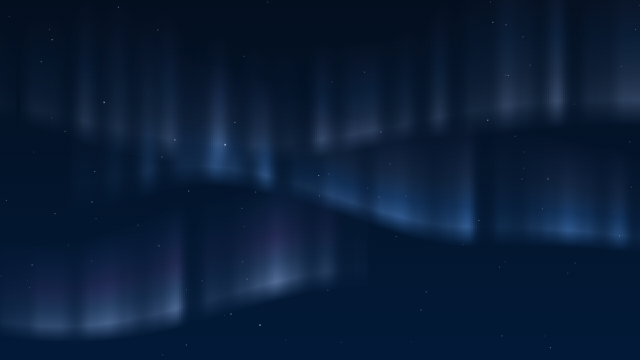
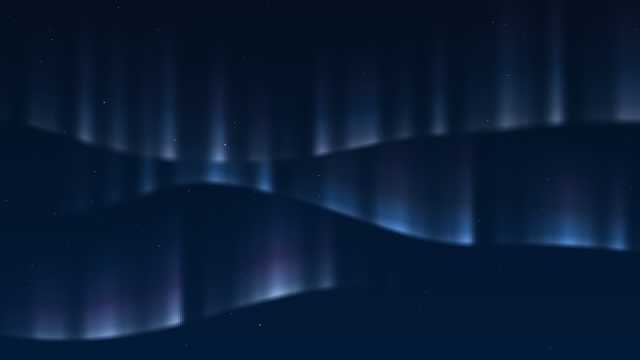
Draft: aurora with a thin bright hem and distinct rays
The default intensity had dropped from 60 to 40 under the contrast rule and
the curtains faded into haze. The light now gathers in a thin hem and rays
with dark gaps, so the default is back at 60 and holds 3.46:1 for
on-surface-variant.

diff --git a/effects/aurora-curtain/index.js b/effects/aurora-curtain/index.js
@@ -74,7 +74,7 @@ const noise2 = (x, y) => {
 const FX = {
   seed: 11,
   t0: 40,
-  settings: {speed: [100, 10, 300], intensity: [40, 10, 100], curtains: [3, 1, 4], interactive: true},
+  settings: {speed: [100, 10, 300], intensity: [60, 10, 100], curtains: [3, 1, 4], interactive: true},
   init(env, rand) {
     const st = {rand, stars: null, sprites: [], sway: 0};
     this.resize(env, st);
@@ -105,10 +105,12 @@ const FX = {
       c.width = 1; c.height = 256;
       const g = c.getContext('2d');
       const grad = g.createLinearGradient(0, 256, 0, 0);
+      // The hem is a thin bright edge, as on a real aurora; above it the colour thins out quickly.
       grad.addColorStop(0, rgba(hem, 0));
-      grad.addColorStop(0.16, rgba(mixc(hem, [255, 255, 255], 0.2), 0.95));
-      grad.addColorStop(0.32, rgba(hem, 0.6));
-      grad.addColorStop(0.55, rgba(mid, 0.32));
+      grad.addColorStop(0.05, rgba(mixc(hem, [255, 255, 255], 0.35), 1));
+      grad.addColorStop(0.13, rgba(hem, 0.7));
+      grad.addColorStop(0.36, rgba(mid, 0.26));
+      grad.addColorStop(0.7, rgba(top, 0.08));
       grad.addColorStop(1, rgba(top, 0));
       g.fillStyle = grad;
       g.fillRect(0, 0, 1, 256);
@@ -143,10 +145,11 @@ const FX = {
         const rays = noise2(u * 38 + k, tt * 2.2);
         const patch = noise2(u * 1.7 + k - tt * 0.5, k + tt * 0.3);
         const lit = patch < 0.3 ? 0 : patch > 0.75 ? 1 : (patch - 0.3) / 0.45;
-        const a = gain * 0.62 * (0.06 + rays * rays * 1.7) * lit * lit;
+        // Rays: bright folds with dark gaps between them, rather than an even haze.
+        const a = gain * 0.88 * (0.02 + rays ** 3 * 3.2) * lit * lit;
         if (a < 0.01) continue;
         ctx.globalAlpha = Math.min(0.85, a);
-        ctx.drawImage(sprite, x - step * 0.4, y - len, step * 1.8, len * 1.2);
+        ctx.drawImage(sprite, x - step * 0.2, y - len, step * 1.3, len * 1.2);
       }
     }
     ctx.globalAlpha = 1;

diff --git a/effects/aurora-curtain/README.md b/effects/aurora-curtain/README.md
@@ -3,7 +3,7 @@
 Glowing aurora curtains fold slowly over a dark starry sky.
 
 - **Russian name:** Полярное сияние
-- **Version:** 1.1.0, simai.effect 1.1.0
+- **Version:** 1.2.0, simai.effect 1.1.0
 - **Surfaces:** sign-in, hero, section, dashboard
 - **Tags:** glow, sky
 - **Role:** A night sky with glowing curtains. The glow needs the dark, so it draws the dark scheme only.
@@ -13,7 +13,7 @@ Glowing aurora curtains fold slowly over a dark starry sky.
 | Key | Type | Range or options | Default | Meaning |
 |:---|:---|:---|:---|:---|
 | `speed` | integer | 10–300 % | `100` | Speed |
-| `intensity` | integer | 10–100 % | `40` | Intensity |
+| `intensity` | integer | 10–100 % | `60` | Intensity |
 | `curtains` | integer | 1–4 | `3` | Curtains |
 | `interactive` | boolean | — | `true` | React to the pointer. Curtains lean towards the pointer |
 
